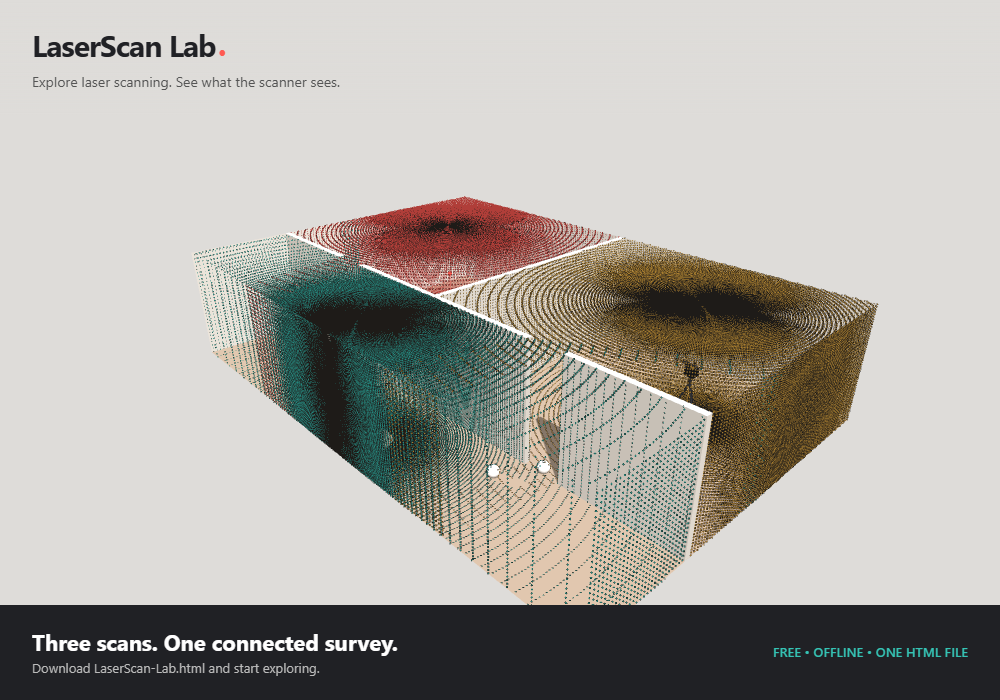
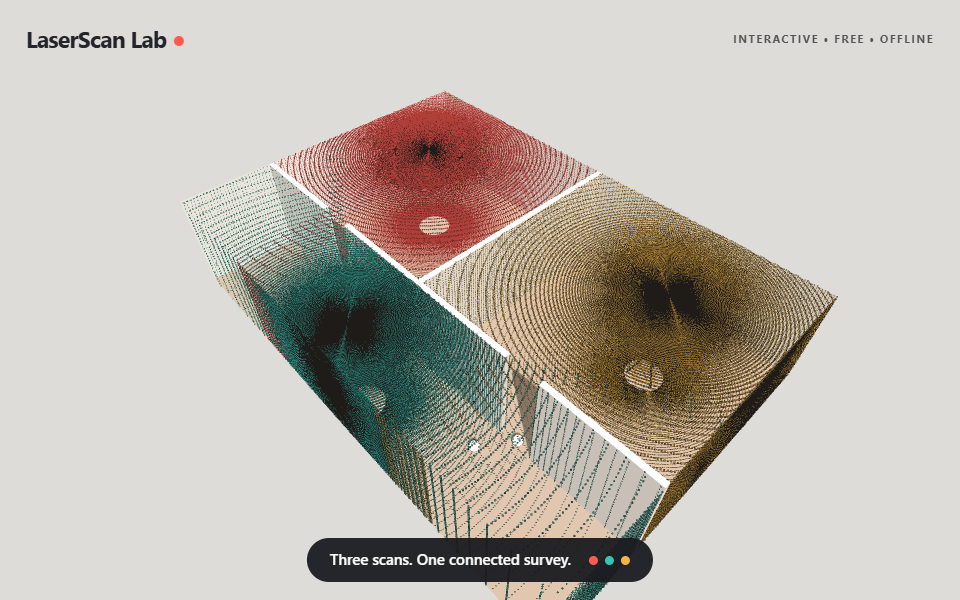
Replace choppy preview with smooth scan capture and camera orbit

diff --git a/scripts/encode-demo.py b/scripts/encode-demo.py
@@ -1,15 +1,21 @@
-"""Encode the app screenshots recorded by record-demo.cjs as a looping README GIF."""
+"""Encode the actual app capture at 15 fps with a stable shared palette."""
 from pathlib import Path
-from PIL import Image
-frames = [Image.open(p).convert('RGB').resize((800,560), Image.Resampling.LANCZOS) for p in sorted(Path('test-results-demo').glob('[0-9][0-9][0-9].png'))]
-if not frames:
-    raise SystemExit('Run node scripts/record-demo.cjs first')
-# A shared palette avoids flickering between differently colored scan stages.
-samples = Image.new('RGB', (200,140*len(frames)))
-for i, frame in enumerate(frames):
-    samples.paste(frame.resize((200,140)),(0,140*i))
-palette=samples.quantize(colors=256)
+from PIL import Image, ImageChops
+files=sorted(Path('test-results-demo').glob('[0-9][0-9][0-9].png'))
+# Lead with the completed survey; the orbit continues seamlessly across the loop.
+files=files[-18:]+files[:-18]
+frames=[Image.open(p).convert('RGB').resize((800,500),Image.Resampling.LANCZOS) for p in files]
+if not frames: raise SystemExit('Run node scripts/record-demo.cjs first')
+samples=Image.new('RGB',(160,100*len(frames)))
+for i,f in enumerate(frames):samples.paste(f.resize((160,100)),(0,i*100))
+palette=samples.quantize(colors=250)
+# Keep the small brand and station indicators vivid despite the neutral background.
+palette.putpalette(palette.getpalette()[:750]+[255,90,82,53,196,181,242,181,68,255,255,255,25,27,32,222,220,217])
 encoded=[f.quantize(palette=palette,dither=Image.Dither.NONE) for f in frames]
-encoded[0].save('assets/demo.gif',save_all=True,append_images=encoded[1:],duration=240,loop=0,optimize=True,disposal=2)
+encoded[0].save('assets/demo.gif',save_all=True,append_images=encoded[1:],duration=[70 if i%3 else 60 for i in range(len(frames))],loop=0,optimize=True,disposal=1)
 with Image.open('assets/demo.gif') as gif:
     print(f'{gif.n_frames} frames, {gif.size}, {Path("assets/demo.gif").stat().st_size/1024/1024:.2f} MiB')
+    gif.seek(gif.n_frames-1)
+    assert ImageChops.difference(gif.convert('RGB'),encoded[-1].convert('RGB')).getbbox() is None, 'GIF disposal left stale pixels'
+    gif.seek(0)
+    gif.convert('RGB').save('test-results-demo/gif-preview.png')

diff --git a/README.md b/README.md
@@ -8,7 +8,7 @@ Try it online or download one HTML file to use offline, with no installation or 
 
 **[Try it online](https://profrino.github.io/laserscan-lab/)** · **[Download the offline app](https://github.com/ProfRino/laserscan-lab/releases/latest/download/LaserScan-Lab.html)**
 
-<img src="assets/demo.gif" alt="Animated LaserScan Lab demonstration: spinning laser and three sequential room scans connected by reference balls" width="100%">
+<img src="assets/demo.gif?v=2" alt="Animated LaserScan Lab demonstration: spinning laser and three sequential room scans connected by reference balls" width="100%">
 
 > **Educational model:** this application demonstrates scanning principles. It is not a calibrated instrument simulator or a real ICP registration solver.
 
